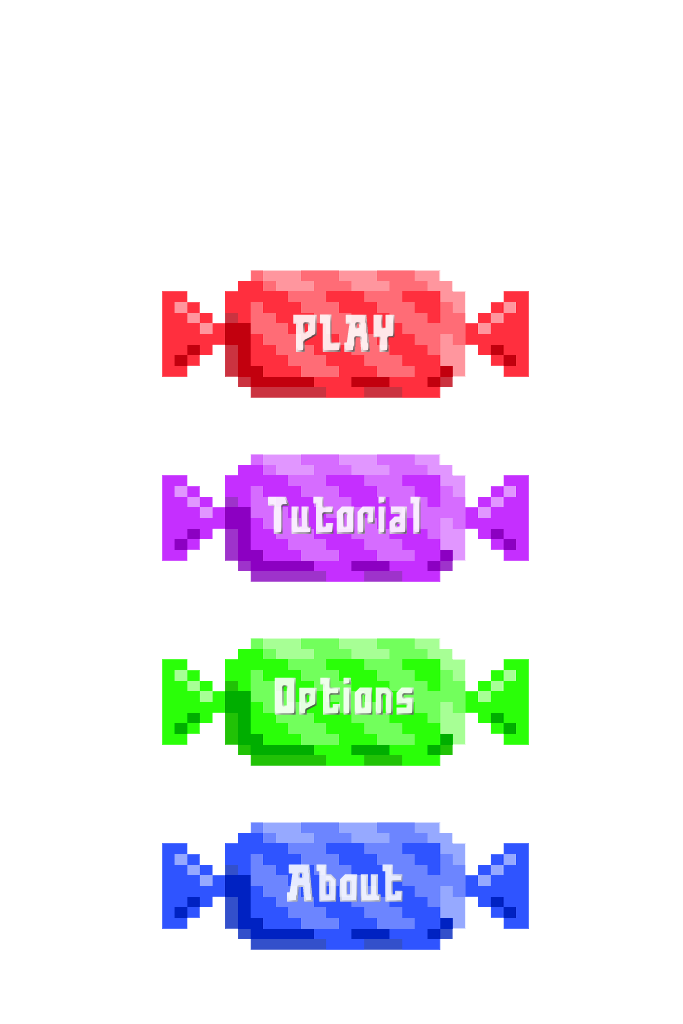
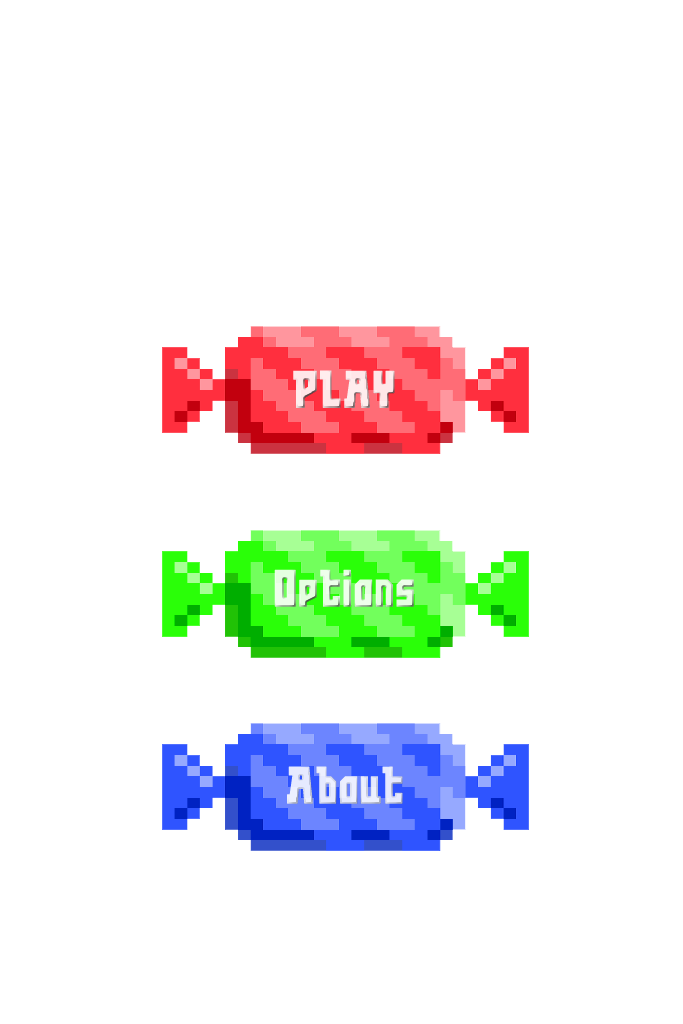
Revert "Added Tutoiral"
This reverts commit f748334c86641bbf9aa76096af9d1c1cea1334ed.

Changed region(s): [[0.2152, 0.25, 0.7994, 0.9375]]

diff --git a/The_Factory/core/src/com/HexiStudios/The_Factory/MenuState.java b/The_Factory/core/src/com/HexiStudios/The_Factory/MenuState.java
@@ -10,7 +10,7 @@ public class MenuState extends BasicState {
 
 	private SpriteBatch batch;
 	Texture buttons, debugRect;	//DEBUG
-	private Rectangle playRect, howRect, optionsRect, creditsRect;
+	private Rectangle playRect, optionsRect, creditsRect;
 
 	public MenuState(Manager manager)  {
 		super(manager);	      
@@ -21,10 +21,9 @@ public class MenuState extends BasicState {
 		debugRect  = new Texture(Gdx.files.internal("debugRect.png"));	//DEBUG
 		
 		//Rectangles are awkward: They start at bottom left.
-		playRect = new Rectangle(162, manager.getHeight() - (270 + 128), 366, 128);
-		howRect = new Rectangle(162, manager.getHeight() - (454 + 128), 366, 128);
-		optionsRect = new Rectangle(162, manager.getHeight() - (638 + 128), 366, 128);
-		creditsRect = new Rectangle(162, manager.getHeight() - (822 + 128), 612, 128);
+		playRect = new Rectangle(162, manager.getHeight() - (326 + 128), 366, 128);
+		optionsRect = new Rectangle(162, manager.getHeight() - (530 + 128), 366, 128);
+		creditsRect = new Rectangle(162, manager.getHeight() - (723 + 128), 612, 128);
 	}
 
 	@Override
@@ -58,10 +57,6 @@ public class MenuState extends BasicState {
 		if (playRect.contains(point))
 		{
 			manager.changeState(new MainState(manager));
-		}
-		else if(howRect.contains(point))
-		{
-			manager.changeState(new HowToPlayState(manager));
 		}
 		else if(optionsRect.contains(point))
 		{
